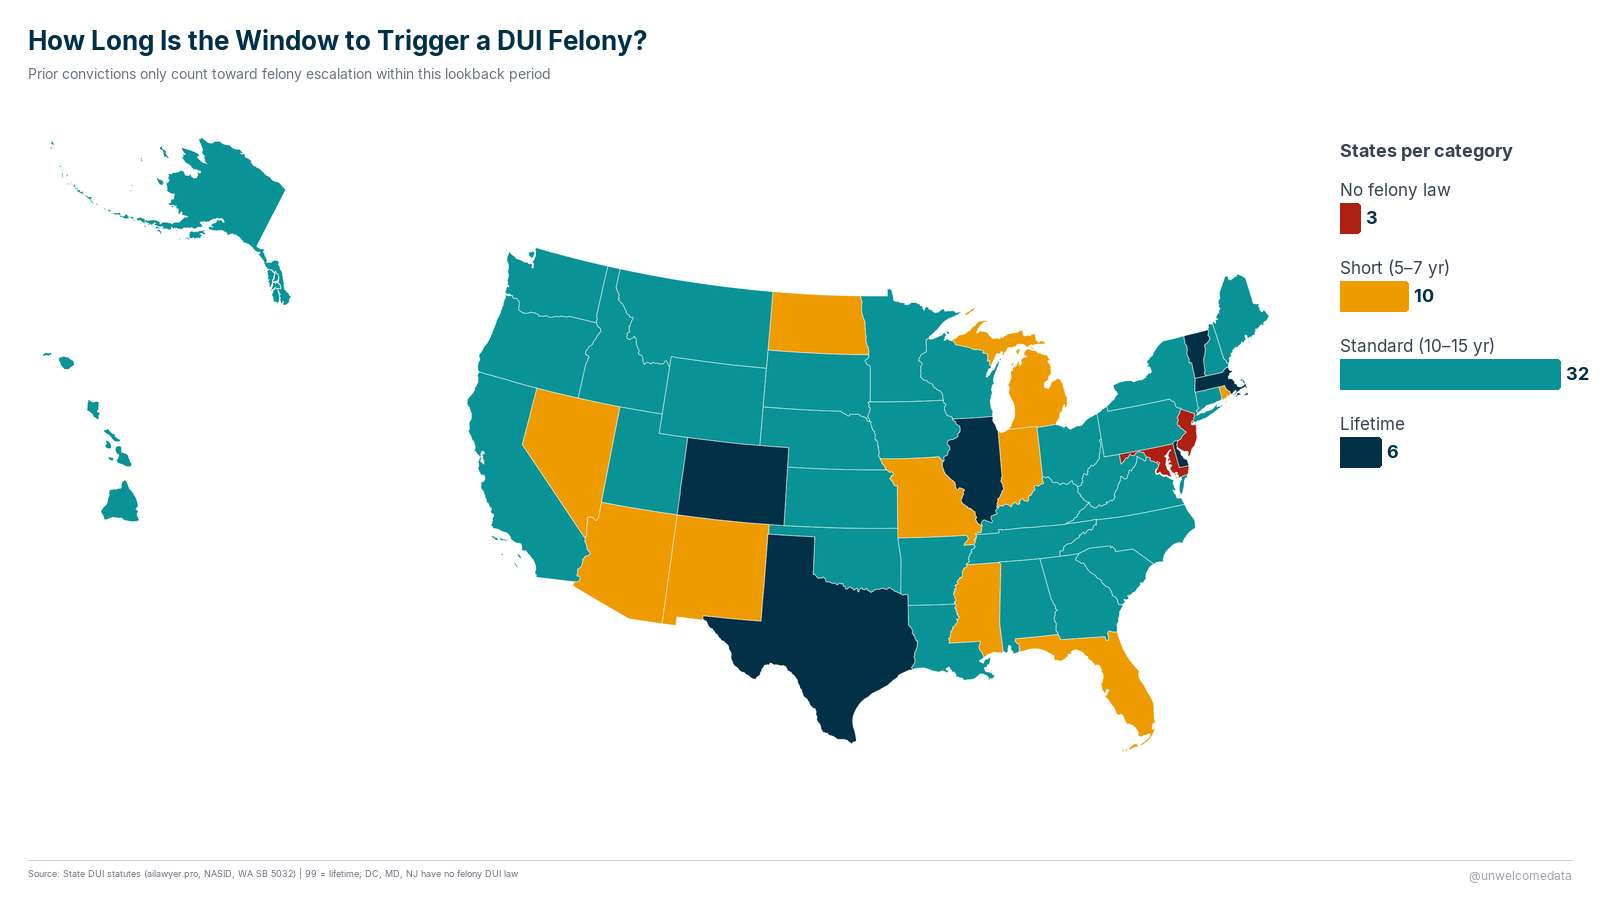
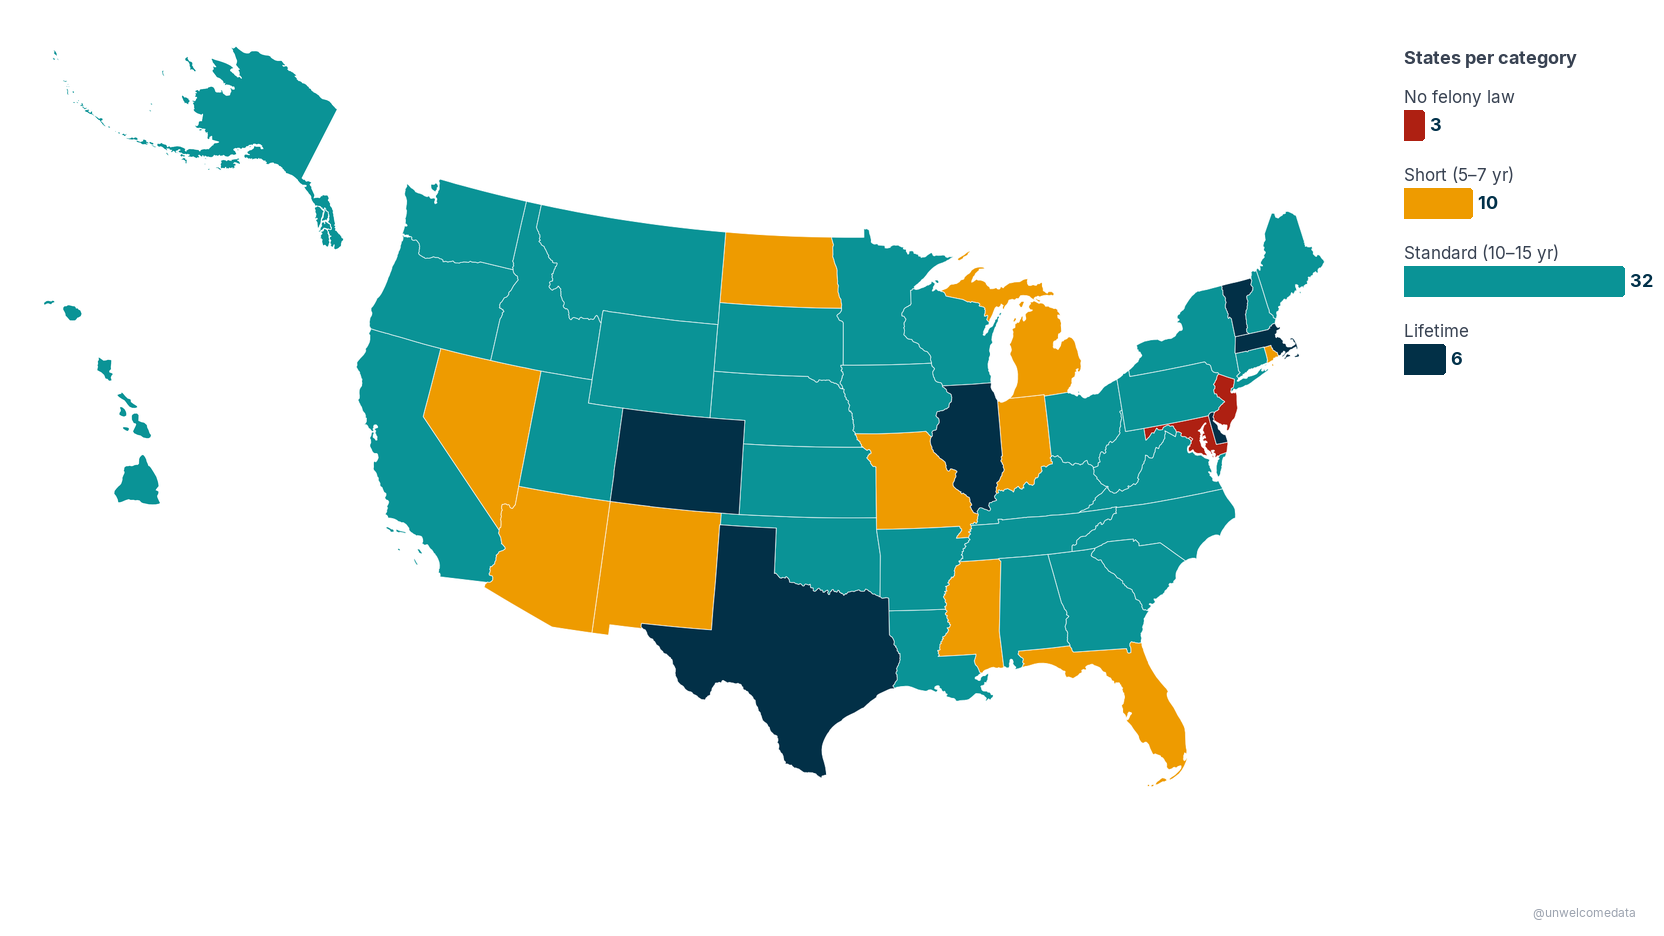
docs: web-optimized charts + wider column + click-to-zoom
docs/ charts are now the web renders (no title/subtitle/source chrome, larger
maps/bars, watermark only). assets/css/style.scss widens the Cayman column;
README wraps each chart in a click-to-zoom link and carries the definitions that
lived only in the chart subtitles (the 'no prior != first time' caveat, the
checkpoint/impound definitions, the lookback bins).

diff --git a/assets/css/style.scss b/assets/css/style.scss
@@ -1,0 +1,29 @@
+---
+---
+
+@import "{{ site.theme }}";
+
+/* ------------------------------------------------------------------ *
+ * @unwelcomedata — shared Cayman overrides (standard across projects)
+ *   1. Widen the content column so charts read without zooming. Stock
+ *      Cayman caps at 64rem with 6rem side padding (~832px usable on
+ *      desktop); we widen it and trim padding at the large breakpoint.
+ *      Mobile/tablet breakpoints are left as the theme ships them.
+ *   2. Let a chart image act as a click-to-open link to the full-res PNG.
+ * ------------------------------------------------------------------ */
+
+@media screen and (min-width: 64em) {
+  .main-content {
+    max-width: 80rem;      /* was 64rem (~1024px) -> ~1280px */
+    padding: 2rem 4rem;    /* was 2rem 6rem -> reclaim 2rem each side */
+  }
+}
+
+.main-content img {
+  max-width: 100%;
+  height: auto;
+}
+.main-content a > img {
+  display: block;
+  margin: 0 auto;
+}

diff --git a/README.md b/README.md
@@ -18,25 +18,32 @@ rates once you account for how rural and how driven a state is.
 
 ## The charts
 
-**Most DUI deaths involve drivers with no prior DUI conviction.** First-time vs
-repeat offenders among drivers in fatal alcohol-impaired crashes.
+_Click any chart to open it at full resolution._
 
-![Most DUI deaths involve drivers with no prior DUI conviction](docs/first_time_vs_repeat.png)
+**Most DUI deaths involve drivers with no prior DUI conviction.** Share of drivers
+in fatal alcohol-impaired crashes who had a prior DUI conviction vs. none, with
+states grouped by their felony-DUI threshold. Note: *no prior conviction is not
+the same as a first time driving impaired* — it means no prior on record.
 
-**When does a DUI become a felony?** The blood-alcohol level or repeat count at
-which a state can charge a DUI as a felony varies widely.
+[![Most DUI deaths involve drivers with no prior DUI conviction](docs/first_time_vs_repeat.png)](docs/first_time_vs_repeat.png)
 
-![When a DUI becomes a felony, by state](docs/felony_threshold.png)
+**When does a DUI become a felony?** The number of DUI convictions that triggers a
+felony charge, by state — always a misdemeanor, or a felony on the 2nd, 3rd, or
+4th offense.
+
+[![When a DUI becomes a felony, by state](docs/felony_threshold.png)](docs/felony_threshold.png)
 
 **How long is the window to trigger a felony?** The "lookback period" — how many
-years back a state counts prior offenses toward a felony charge.
+years back a state counts prior offenses toward a felony charge (short 5–7 yr,
+standard 10–15 yr, lifetime, or no felony law at all).
 
-![Felony lookback period by state](docs/felony_lookback.png)
+[![Felony lookback period by state](docs/felony_lookback.png)](docs/felony_lookback.png)
 
-**Can they stop you AND take your car?** Two enforcement powers combined —
-sobriety checkpoints and vehicle impound/forfeiture — mapped together.
+**Can they stop you AND take your car?** Two enforcement powers mapped together:
+*checkpoints* = sobriety checkpoints are legal; *impound* = mandatory vehicle
+seizure on a DUI. Dark = a state has both; gray = neither.
 
-![DUI enforcement mechanisms by state](docs/enforcement_matrix.png)
+[![DUI enforcement mechanisms by state](docs/enforcement_matrix.png)](docs/enforcement_matrix.png)
 
 ---
 
